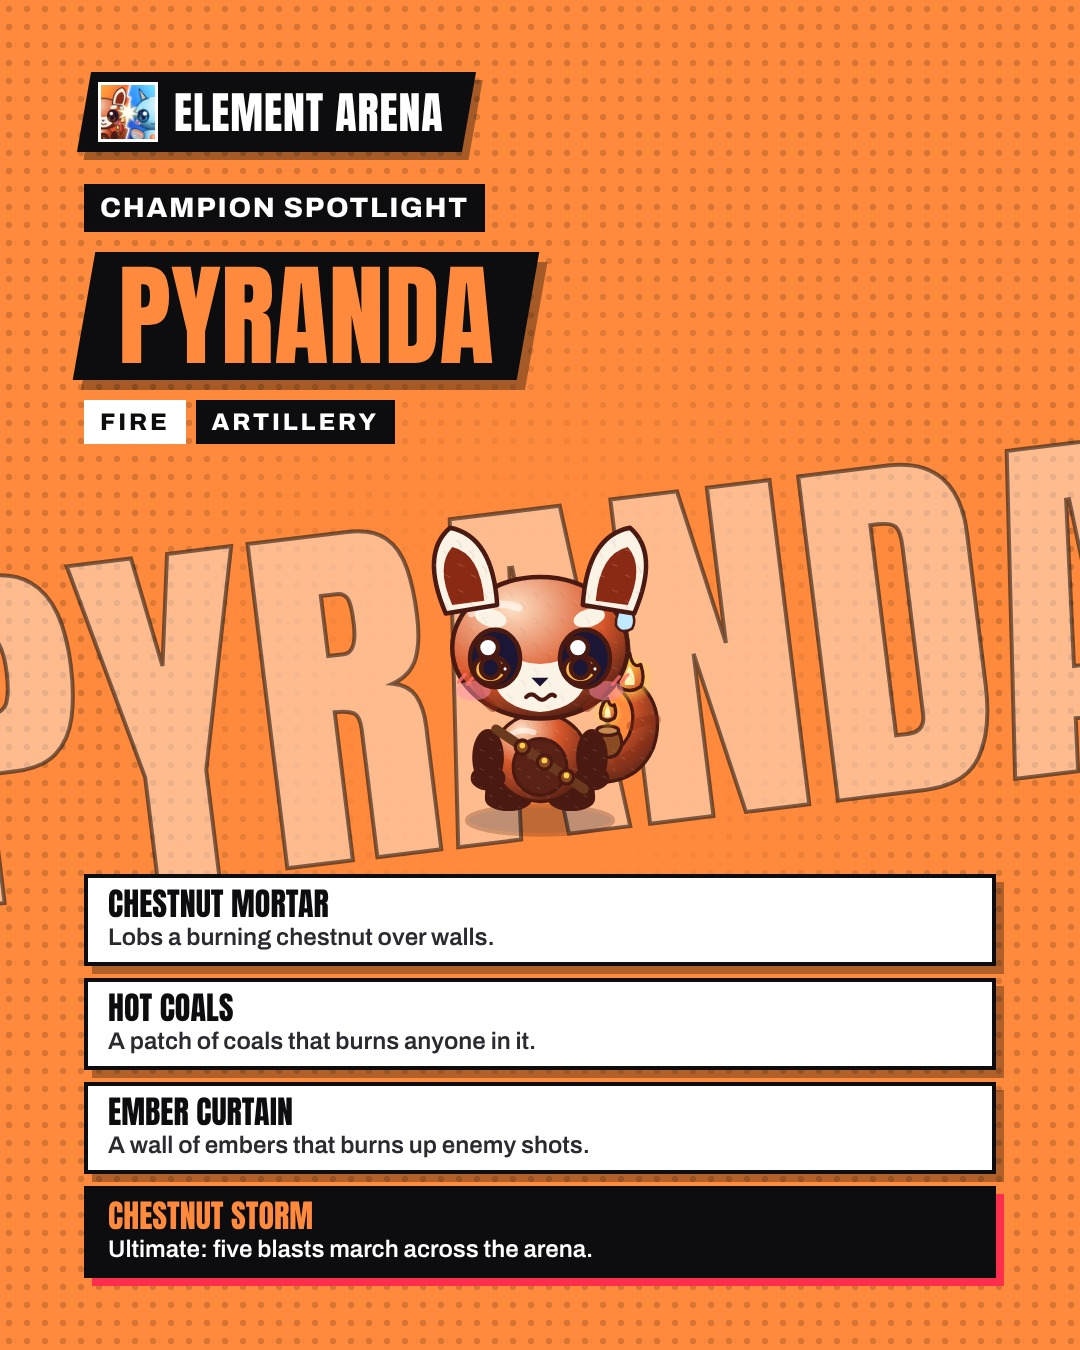
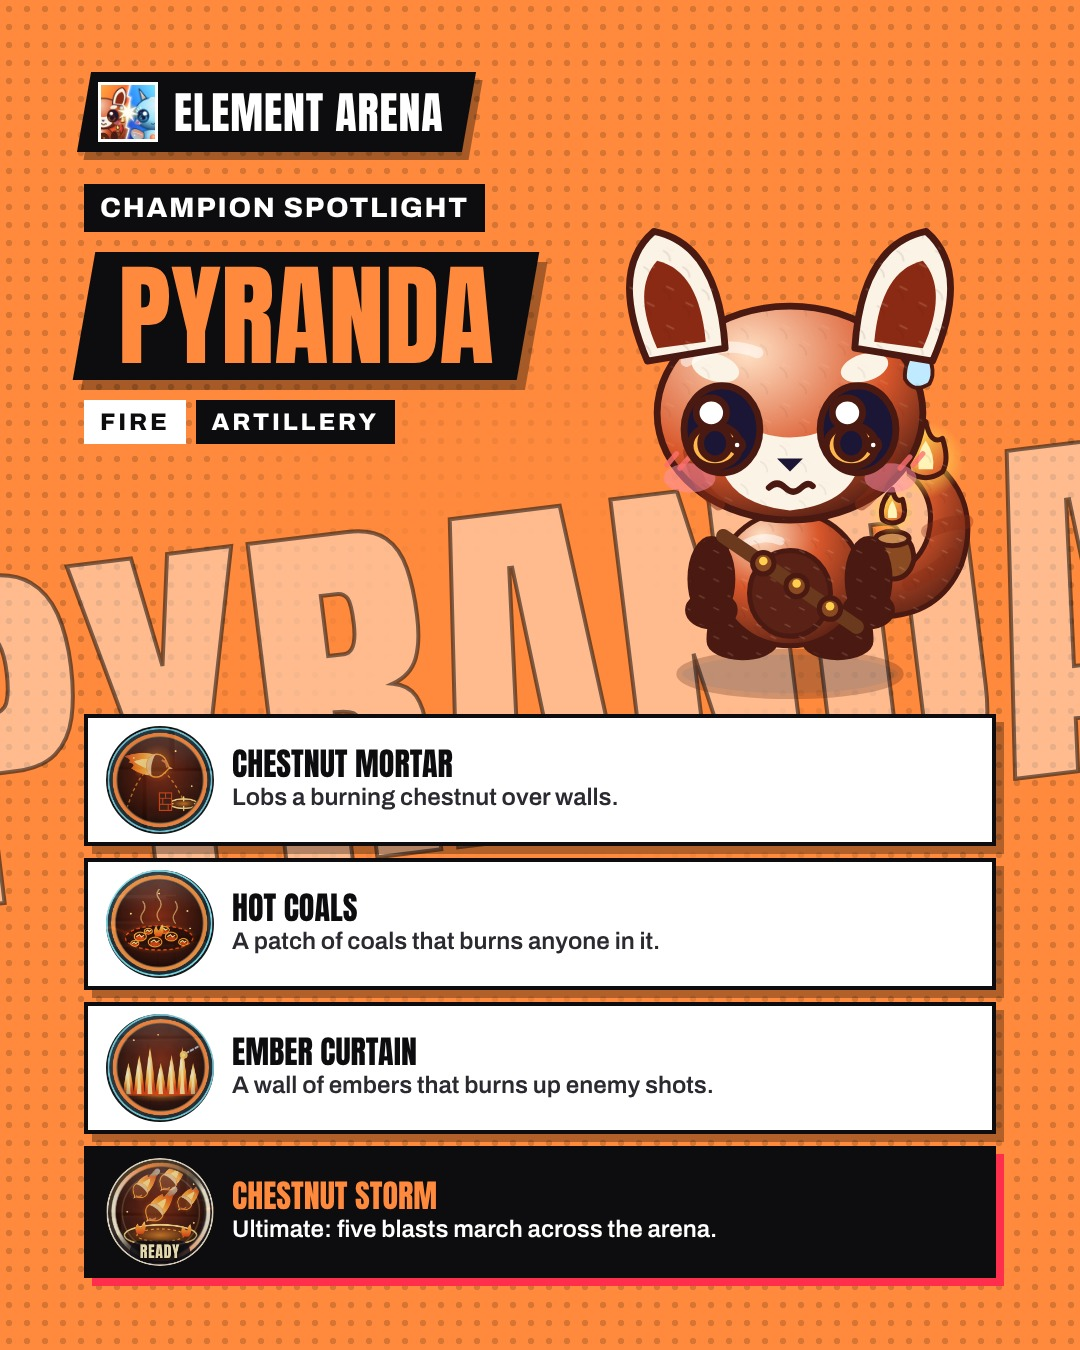
Instagram: the champion spotlight shows each skill's button from the game
The owner, 28 Nov: a champion spotlight should show what the skill
buttons look like in the game. kit.spec.ts captures a champion's four
buttons exactly as a phone shows them in battle (Poster, 956 x 440 at
3x, nobody casting, the ultimate charged: no cooldown numbers, READY on
the ultimate), and the Pyranda post puts each beside its move. The
drawing is placed on its own in feed and story so the taller list never
shrinks it.

Claude-Session: https://claude.ai/code/session_01GGURqTyss1yZEG5qcb1sBJ

diff --git a/scripts/instagram/kit.spec.ts b/scripts/instagram/kit.spec.ts
@@ -1,0 +1,88 @@
+/**
+ * A champion's skill buttons exactly as a phone shows them in battle (owner,
+ * 28 Nov: the champion spotlight shows what each skill's button looks
+ * like), for make-posts.mjs's champion posts. The website's free-for-all
+ * scene (scripts/site-clips/scenes.ts) with the player's fighter swapped for
+ * the champion, nobody casting, the ultimate charged, so every button is
+ * ready: no cooldown numbers. Each button is written to
+ * instagram-clips/kit/<champion>/<slot>.png (0-2 skills, 3 the ultimate)
+ * with its aria-label in labels.json, to check the order against the post.
+ *
+ *   CHAMP=pyranda npx playwright test --config scripts/instagram/playwright.config.ts kit
+ */
+import { expect, test } from "@playwright/test";
+import { mkdirSync, writeFileSync } from "node:fs";
+import {
+  createRoom,
+  openHub,
+  openPlayPanel,
+  pushUntilBattle,
+} from "../../tests/visual/helpers";
+import { lookShown, onPlayersLook } from "../../tests/visual/players-look";
+import { setInsets } from "../../tests/visual/ui-measure";
+import { SCENES, stage, step } from "../site-clips/scenes";
+
+onPlayersLook();
+
+const CHAMP = process.env.CHAMP ?? "pyranda";
+
+test(`kit ${CHAMP}`, async ({ browser }) => {
+  test.setTimeout(300_000);
+  const context = await browser.newContext({
+    viewport: { width: 956, height: 440 },
+    deviceScaleFactor: 3,
+    isMobile: true,
+    hasTouch: true,
+  });
+  try {
+    const page = await context.newPage();
+    await openHub(page);
+    expect(await lookShown(page)).toBe("poster");
+    await setInsets(page, { left: 62, right: 62, bottom: 21, top: 0 });
+    const ffa = SCENES.find((s) => s.name === "ffa")!;
+    const scene = {
+      ...ffa,
+      fighters: ffa.fighters.map((f, i) =>
+        i ? f : ([f[0], CHAMP, f[2], f[3]] as typeof f),
+      ),
+    };
+    await page.evaluate((args) => (window as any).__room(...args), scene.room);
+    await openPlayPanel(page);
+    await createRoom(page);
+    await pushUntilBattle(page);
+    await page.addStyleTag({ content: "#toast { display: none !important; }" });
+    await stage(page, scene);
+    // Nobody casts; the player's ultimate stays full.
+    await page.evaluate(() => {
+      const shot = (window as any).__shot;
+      const keep = shot.keep;
+      shot.inputs = () => null;
+      shot.keep = () => {
+        keep();
+        const me = shot.a.players.find((p: any) => p.id === "me");
+        if (me) me.ult = 100;
+      };
+    });
+    for (let i = 0; i < 40; i++) await step(page, 2, true);
+    const dir = `instagram-clips/kit/${CHAMP}`;
+    mkdirSync(dir, { recursive: true });
+    const labels: Record<string, string> = {};
+    for (const slot of ["0", "1", "2", "3"]) {
+      const button = page.locator(
+        `#mobile-controls .touch-buttons button[data-skill="${slot}"]`,
+      );
+      await expect(button).toBeVisible();
+      labels[slot] =
+        (await button.getAttribute("aria-label")) ??
+        (await button.textContent()) ??
+        "";
+      writeFileSync(
+        `${dir}/${slot}.png`,
+        await button.screenshot({ omitBackground: true }),
+      );
+    }
+    writeFileSync(`${dir}/labels.json`, JSON.stringify(labels, null, 1));
+  } finally {
+    await context.close();
+  }
+});

diff --git a/docs/instagram.md b/docs/instagram.md
@@ -62,6 +62,11 @@ The first command records, in Poster:
   coin count is blurred where it stands (the owner's rule for the website:
   no amounts of the game's money outside the game), so Journey, Ranks and
   mission rewards, which show coin amounts, are not used yet;
+- **a champion's skill buttons** (`kit.spec.ts`, `CHAMP=pyranda`): the
+  free-for-all scene with the player as that champion, nobody casting and
+  the ultimate charged, each button saved as it looks in battle, for the
+  champion spotlights (owner, 28 Nov: show what the skill buttons look
+  like);
 - **the three Mythical skins** in the game's fitting room at Stage III, in Poster
   (the spec calls `onPlayersLook()`), frame by frame on the page's own clock
   (about 6 minutes): standing, then each one's Entrance, Victory and
@@ -128,15 +133,16 @@ shows, retake it, look at it, and ship it before its time. The pictures in
 `apps/site/social/` were last made at the commit that last changed them
 (`git log -1 -- apps/site/social/<file>`).
 
-| Post                                                                 | Shows of the game                                                                            | Retake with                                         |
-| -------------------------------------------------------------------- | -------------------------------------------------------------------------------------------- | --------------------------------------------------- |
-| 2 Duels, 5 Teams, 7 Free-for-all, 9 Spire, 11's cover and last slide | a real battle, whole screen: court, fighters, effects, HUD and touch controls                | `battles.spec.ts`, then pick the frame again by eye |
-| 3 Roster, 6 Pyranda                                                  | the fighters' drawings, names and elements (packages/shared)                                 | `make-posts.mjs`                                    |
-| 8 Skins (Reel)                                                       | the Shop's fitting room in Poster, the Mythical skins                                        | `skins.spec.ts`, `make-reel.py`                     |
-| 10 Found a bug?                                                      | the gear menu in Poster and Report a problem                                                 | `report.spec.ts`, then `make-posts.mjs`             |
-| 11 Play it like an app                                               | the app icon, and Safari's steps (iOS, not the game)                                         | `HOWTO=1 make-posts.mjs`; new iOS: new screenshots  |
-| 12 Plaza, 13 Friends                                                 | the Plaza (made-up players placed by world coordinates), the Friends sheet (made-up friends) | `screens.spec.ts`, then pick the frame again by eye |
-| 1 Welcome, 4 Lumiwick                                                | paintings only                                                                               | `make-posts.mjs`                                    |
+| Post                                                                 | Shows of the game                                                                            | Retake with                                          |
+| -------------------------------------------------------------------- | -------------------------------------------------------------------------------------------- | ---------------------------------------------------- |
+| 2 Duels, 5 Teams, 7 Free-for-all, 9 Spire, 11's cover and last slide | a real battle, whole screen: court, fighters, effects, HUD and touch controls                | `battles.spec.ts`, then pick the frame again by eye  |
+| 3 Roster                                                             | the fighters' drawings, names and elements (packages/shared)                                 | `make-posts.mjs`                                     |
+| 6 Pyranda (champion spotlights)                                      | the drawing, and each skill's button as a phone shows it in battle (owner, 28 Nov)           | `CHAMP=pyranda` `kit.spec.ts`, then `make-posts.mjs` |
+| 8 Skins (Reel)                                                       | the Shop's fitting room in Poster, the Mythical skins                                        | `skins.spec.ts`, `make-reel.py`                      |
+| 10 Found a bug?                                                      | the gear menu in Poster and Report a problem                                                 | `report.spec.ts`, then `make-posts.mjs`              |
+| 11 Play it like an app                                               | the app icon, and Safari's steps (iOS, not the game)                                         | `HOWTO=1 make-posts.mjs`; new iOS: new screenshots   |
+| 12 Plaza, 13 Friends                                                 | the Plaza (made-up players placed by world coordinates), the Friends sheet (made-up friends) | `screens.spec.ts`, then pick the frame again by eye  |
+| 1 Welcome, 4 Lumiwick                                                | paintings only                                                                               | `make-posts.mjs`                                     |
 
 Every post's frame copies Poster (colours, fonts, slabs: the CSS in
 `make-posts.mjs`), and captions name places in the game: when Poster's
